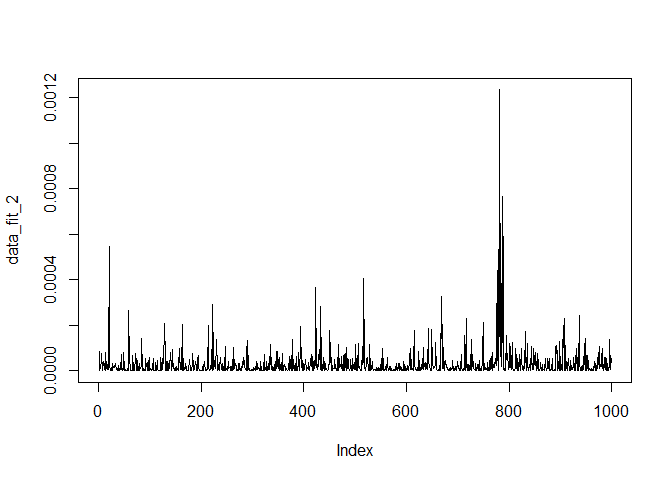
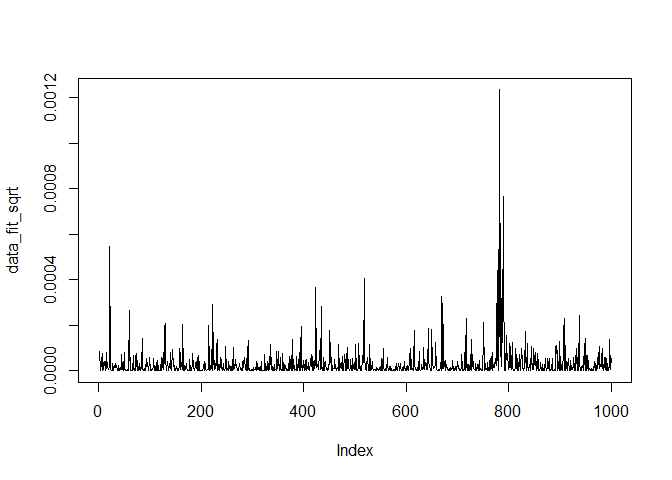
update 2

diff --git a/MarkdownScript.md b/MarkdownScript.md
@@ -1,11 +1,25 @@
-# INTRODUCTION
+## INTRODUCTION
 
 <div align="justify">
 
-# DATA & LIBRARIES
+The aim of this study is to figure out how much risk is associated with
+changes in the value of the GBP/VND currency pair over a period of 5
+years using the GARCH VaR approach by Ionas Kelepouris & Dimos
+Kelepouris. The time series used in this research consists of GBP/VND
+returns over the past 5 years. To break it down, I use the GARCH model
+to estimate how much the volatility of these returns varies over time
+then make a forecast about potential future losses (VaR) associated with
+the GBP/VND currency pair. The final output will be used to create a
+scenario for hedging in the FX market.
+
+## DATA EXPLORATORY
 
 <div align="justify">
 
+This research used a dataset of 1250 observations, reflecting the
+fluctuations in the GBP to VND exchange rate over a span of 5 years, on
+a daily basis.The first 1000 obs will be used in the model and 250 obs
+will be used in backtesting progress.
 
 ``` r
 library(zoo)
@@ -15,10 +29,14 @@ library(FinTS)
 library(rugarch)
 df <- read.csv("GBP_VND.csv")
 df$date <- as.Date(df$date, format = "%d/%m/%Y")
+train_percentage <- 0.8
+train_rows <- round(nrow(df) * train_percentage)
+train_data <- df[1:train_rows, ]
+test_data <- df[(train_rows + 1):nrow(df), ]
 ```
 
 ``` r
-head(df,5)
+head(train_data,5)
 ```
 
     ##         date   price       return
@@ -28,86 +46,87 @@ head(df,5)
     ## 4 2017-03-23 28540.5  0.003844032
     ## 5 2017-03-24 28418.5 -0.004283790
 
-# DATA VISUALIZATION
-
-<div align="justify">
-
-
 ``` r
-ggplot(df, aes(x = date, y = price)) +
-  geom_line(color = 'blue') +
+ggplot(train_data, aes(x = date, y = price)) +
+  geom_line(color = 'red') +
   labs(x = '', y = 'Price (per GBP)', title = 'GBP/VND')
 ```
 
 ![](MarkdownScript_files/figure-markdown_github/code%203-1.png)
 
 ``` r
-ggplot(df, aes(x = date, y = return)) +
-  geom_line(color = 'blue') +
-  labs(x = '', y = 'Return', title = 'GBP/VND')
-```
-
-![](MarkdownScript_files/figure-markdown_github/code%203-2.png)
-
-``` r
-jarque.bera.test(na.omit(df$return))
-```
-
-    ## 
-    ##  Jarque Bera Test
-    ## 
-    ## data:  na.omit(df$return)
-    ## X-squared = 500.67, df = 2, p-value < 2.2e-16
-
-``` r
-summary(df$return)
-```
-
-    ##       Min.    1st Qu.     Median       Mean    3rd Qu.       Max.       NA's 
-    ## -0.0351436 -0.0032667  0.0000996  0.0000736  0.0031763  0.0276862          1
-
-``` r
-data_fit <- na.omit(df$return[1:1000])
-data_backtest <- df$return[1000:1250]
-```
-
-``` r
-fitdist(distribution = 'std' , x = data_fit)$pars
-```
-
-    ##           mu        sigma        shape 
-    ## 5.641171e-05 5.628474e-03 5.416408e+00
-
-``` r
-adf.test(data_fit)
+adf.test(train_data$price)
 ```
 
     ## 
     ##  Augmented Dickey-Fuller Test
     ## 
-    ## data:  data_fit
+    ## data:  train_data$price
+    ## Dickey-Fuller = -2.6508, Lag order = 9, p-value = 0.3028
+    ## alternative hypothesis: stationary
+
+<div align="justify">
+
+The ADF test result with a p-value of 0.3028, which is higher than the
+significance level of 0.05, we cannot reject the null hypothesis. This
+suggests that the exchange rate between GBP and VND is likely not
+stationary. This conclusion aligns with the graphical analysis of the
+price graph.Non-stationary processes have means, variances and
+covariances that change over time. Using non-stationary time series data
+leads to unreliable forecasting. For the stationarity transformation, we
+prefer to calculate the simple daily returns:  
+$$ r_t = \frac{{{price}\_t-{price}\_{t-1}}}{{{price}\_{t-1}}} $$
+
+``` r
+ggplot(train_data, aes(x = date, y = return)) +
+  geom_line(color = 'blue') +
+  labs(x = '', y = 'Return', title = 'GBP/VND')
+```
+
+![](MarkdownScript_files/figure-markdown_github/code%20-1.png)
+
+``` r
+adf.test(na.omit(train_data$return))
+```
+
+    ## 
+    ##  Augmented Dickey-Fuller Test
+    ## 
+    ## data:  na.omit(train_data$return)
     ## Dickey-Fuller = -12.002, Lag order = 9, p-value = 0.01
     ## alternative hypothesis: stationary
 
+<div align="justify">
+
+The ADF test result with a p-value of 0.01, we can reject the null
+hypothesis: The return series does not have a unit root and is
+stationary. Hence, it could be used in time series forecasting.
+
+## GARCH Implementation
+
+### Applying ARIMA to find the best fit of a Time Series model
+
+# `{r code 4, message= FALSE, warning = FALSE} # jarque.bera.test(na.omit(df$return)) #`
+
 ``` r
-ArchTest(data_fit, lags = 1, demean = T)
+ArchTest(train_data$return, lags = 1, demean = T)
 ```
 
     ## 
     ##  ARCH LM-test; Null hypothesis: no ARCH effects
     ## 
-    ## data:  data_fit
+    ## data:  train_data$return
     ## Chi-squared = 37.931, df = 1, p-value = 7.33e-10
 
 ``` r
-data_fit_2 <- data_fit^2
-plot(data_fit_2, type = "l")
+data_fit_sqrt <- train_data$return^2
+plot(data_fit_sqrt, type = "l")
 ```
 
 ![](MarkdownScript_files/figure-markdown_github/code%2010-1.png)
 
 ``` r
-pacf(data_fit_2)
+pacf(na.omit(data_fit_sqrt))
 ```
 
 ![](MarkdownScript_files/figure-markdown_github/code%2010-2.png)
@@ -121,3 +140,5 @@ pacf(data_fit_2)
 # 
 
 # `{r code 13, message= FALSE, warning = FALSE} # ArchTest(data_fit, lags = 1, demean = T) #`
+
+# `{r code 7, message= FALSE, warning = FALSE} # fitdist(distribution = 'std' , x = data_fit)$pars #`
